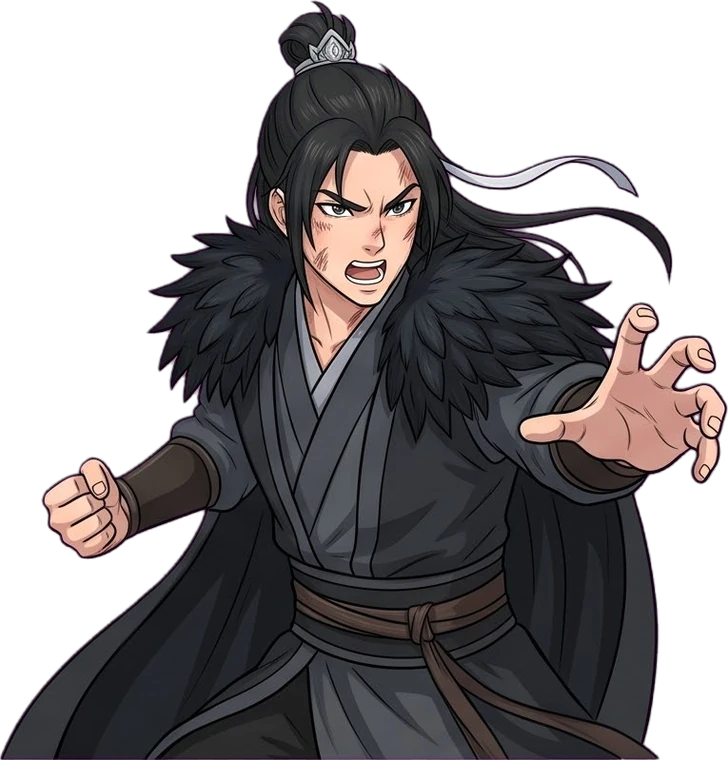
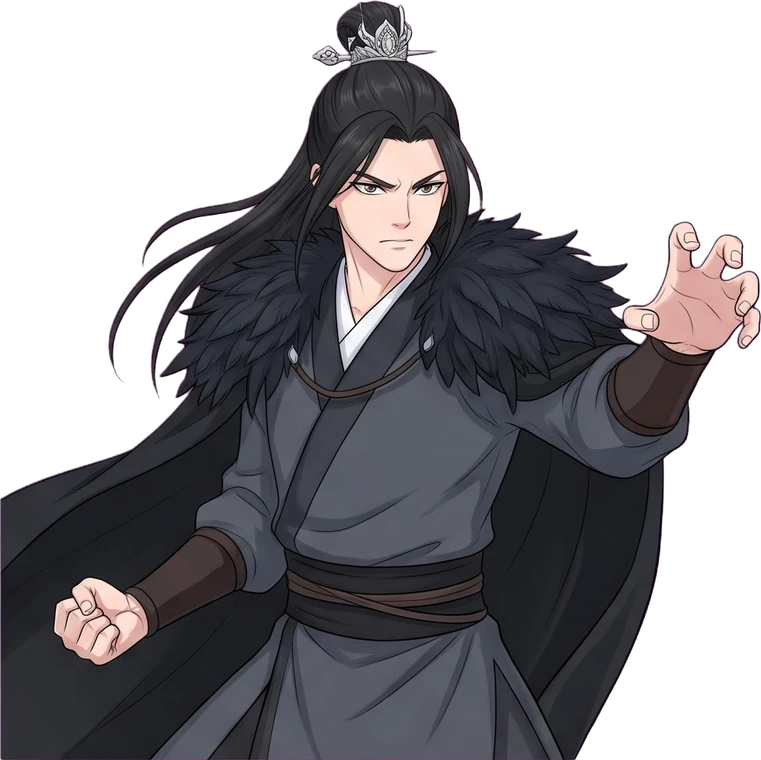
最終版134:男主體修絕學特寫換成無傷版
Claude-Session: https://claude.ai/code/session_01Eudv1bj25nFF4NszqJcvVs

diff --git a/index.html b/index.html
@@ -16408,7 +16408,7 @@ window.SFX = (() => {
 window.BP114 = {"F_o1_1": "assets/BP/F_o1_1.webp?v=845711f1", "F_o1_2": "assets/BP/F_o1_2.webp?v=63e0ea8a", "F_o1_3": "assets/BP/F_o1_3.webp?v=4c8fedf0", "F_o1_4": "assets/BP/F_o1_4.webp?v=2d3a9938", "F_o1_5": "assets/BP/F_o1_5.webp?v=39089390", "F_o1_6": "assets/BP/F_o1_6.webp?v=665fdf49", "F_o1_7": "assets/BP/F_o1_7.webp?v=a421ed48", "F_o1_8": "assets/BP/F_o1_8.webp?v=46d02e9f", "F_o1_9": "assets/BP/F_o1_9.webp?v=71e7e51b", "F_o2_1": "assets/BP/F_o2_1.webp?v=05a69ca3", "F_o2_2": "assets/BP/F_o2_2.webp?v=b4ad1367", "F_o2_3": "assets/BP/F_o2_3.webp?v=5b5c3b9e", "F_o2_4": "assets/BP/F_o2_4.webp?v=675eb247", "F_o2_5": "assets/BP/F_o2_5.webp?v=3e6b4256", "F_o2_6": "assets/BP/F_o2_6.webp?v=a83ed8f2", "F_o2_7": "assets/BP/F_o2_7.webp?v=5385903d", "F_o2_8": "assets/BP/F_o2_8.webp?v=813db133", "F_o2_9": "assets/BP/F_o2_9.webp?v=fe97a297", "F_o3_1": "assets/BP/F_o3_1.webp?v=bb0a3107", "F_o3_2": "assets/BP/F_o3_2.webp?v=427aa689", "F_o3_3": "assets/BP/F_o3_3.webp?v=85f7357a", "F_o3_4": "assets/BP/F_o3_4.webp?v=72153950", "F_o3_5": "assets/BP/F_o3_5.webp?v=667aea18", "F_o3_6": "assets/BP/F_o3_6.webp?v=0a9314ea", "F_o3_7": "assets/BP/F_o3_7.webp?v=e8cbb446", "F_o3_8": "assets/BP/F_o3_8.webp?v=b0c55eaa", "F_o3_9": "assets/BP/F_o3_9.webp?v=72363e9e", "F_o4_1": "assets/BP/F_o4_1.webp?v=0a7498b0", "F_o4_2": "assets/BP/F_o4_2.webp?v=0d6c24b1", "F_o4_3": "assets/BP/F_o4_3.webp?v=64f0bf7d", "F_o4_4": "assets/BP/F_o4_4.webp?v=ee9cef42", "F_o4_5": "assets/BP/F_o4_5.webp?v=1df47660", "F_o4_6": "assets/BP/F_o4_6.webp?v=7e19d22c", "F_o4_7": "assets/BP/F_o4_7.webp?v=23243e00", "F_o4_8": "assets/BP/F_o4_8.webp?v=41ff7a57", "F_o4_9": "assets/BP/F_o4_9.webp?v=fdd62696", "F_o5_1": "assets/BP/F_o5_1.webp?v=1acbb409", "F_o5_2": "assets/BP/F_o5_2.webp?v=057ef934", "F_o5_3": "assets/BP/F_o5_3.webp?v=8cf69a7a", "F_o5_4": "assets/BP/F_o5_4.webp?v=83b6597d", "F_o5_5": "assets/BP/F_o5_5.webp?v=2527e5a5", "F_o5_6": "assets/BP/F_o5_6.webp?v=67d0d5f1", "F_o5_7": "assets/BP/F_o5_7.webp?v=4fe41938", "F_o5_8": "assets/BP/F_o5_8.webp?v=a7d74ed8", "F_o5_9": "assets/BP/F_o5_9.webp?v=3954470c", "M_o1_1": "assets/BP/M_o1_1.webp?v=2560faa7", "M_o1_2": "assets/BP/M_o1_2.webp?v=7ad66686", "M_o1_3": "assets/BP/M_o1_3.webp?v=49844ea7", "M_o1_4": "assets/BP/M_o1_4.webp?v=e28f9fdc", "M_o1_5": "assets/BP/M_o1_5.webp?v=b9ccd80b", "M_o1_6": "assets/BP/M_o1_6.webp?v=e9083ee8", "M_o1_7": "assets/BP/M_o1_7.webp?v=58ceecdd", "M_o1_8": "assets/BP/M_o1_8.webp?v=cfe7d049", "M_o1_9": "assets/BP/M_o1_9.webp?v=c5d17e5e", "M_o2_1": "assets/BP/M_o2_1.webp?v=a457cddd", "M_o2_2": "assets/BP/M_o2_2.webp?v=5350cd1f", "M_o2_3": "assets/BP/M_o2_3.webp?v=9923ac77", "M_o2_4": "assets/BP/M_o2_4.webp?v=54d8b4cd", "M_o2_5": "assets/BP/M_o2_5.webp?v=7b33d424", "M_o2_6": "assets/BP/M_o2_6.webp?v=99974fd4", "M_o2_7": "assets/BP/M_o2_7.webp?v=9e35d3f7", "M_o2_8": "assets/BP/M_o2_8.webp?v=010e2f77", "M_o2_9": "assets/BP/M_o2_9.webp?v=9e51febd", "M_o3_1": "assets/BP/M_o3_1.webp?v=911e0148", "M_o3_2": "assets/BP/M_o3_2.webp?v=d49ff3b7", "M_o3_3": "assets/BP/M_o3_3.webp?v=70fd962f", "M_o3_4": "assets/BP/M_o3_4.webp?v=10baf48d", "M_o3_5": "assets/BP/M_o3_5.webp?v=64e0e325", "M_o3_6": "assets/BP/M_o3_6.webp?v=c2438bd5", "M_o3_7": "assets/BP/M_o3_7.webp?v=a6ce3d23", "M_o3_8": "assets/BP/M_o3_8.webp?v=c9752f83", "M_o3_9": "assets/BP/M_o3_9.webp?v=a1af0ada", "M_o4_1": "assets/BP/M_o4_1.webp?v=43ac3c38", "M_o4_2": "assets/BP/M_o4_2.webp?v=f512e93b", "M_o4_3": "assets/BP/M_o4_3.webp?v=651f67c3", "M_o4_4": "assets/BP/M_o4_4.webp?v=5e0b1883", "M_o4_5": "assets/BP/M_o4_5.webp?v=9e77acc4", "M_o4_6": "assets/BP/M_o4_6.webp?v=6ed9a474", "M_o4_7": "assets/BP/M_o4_7.webp?v=5427d33a", "M_o4_8": "assets/BP/M_o4_8.webp?v=c0be0eb9", "M_o4_9": "assets/BP/M_o4_9.webp?v=22d5c0e4", "M_o5_1": "assets/BP/M_o5_1.webp?v=2e970d7d", "M_o5_2": "assets/BP/M_o5_2.webp?v=ded257bf", "M_o5_3": "assets/BP/M_o5_3.webp?v=4af86b3b", "M_o5_4": "assets/BP/M_o5_4.webp?v=10635597", "M_o5_5": "assets/BP/M_o5_5.webp?v=b3438832", "M_o5_6": "assets/BP/M_o5_6.webp?v=132388bd", "M_o5_7": "assets/BP/M_o5_7.webp?v=24d3b448", "M_o5_8": "assets/BP/M_o5_8.webp?v=68e0ee4d", "M_o5_9": "assets/BP/M_o5_9.webp?v=ceae38ce"};
 
 /* v122 本命絕學過場特寫 */
-window.UC121 = {"F_sword": "assets/UC/F_sword.webp?v=d6b677e1", "F_magic": "assets/UC/F_magic.webp?v=c86b9151", "F_body": "assets/UC/F_body.webp?v=ed430cdf", "F_pill": "assets/UC/F_pill.webp?v=a4586067", "F_o2_sword": "assets/UC/F_o2_sword.webp?v=df65fb9d", "F_o2_magic": "assets/UC/F_o2_magic.webp?v=ee4d66b8", "F_o2_body": "assets/UC/F_o2_body.webp?v=b3b2b16c", "F_o2_pill": "assets/UC/F_o2_pill.webp?v=f8ec9a1b", "F_o3_sword": "assets/UC/F_o3_sword.webp?v=70c4c692", "F_o3_magic": "assets/UC/F_o3_magic.webp?v=b4d94d57", "F_o3_body": "assets/UC/F_o3_body.webp?v=fbb4ddd4", "F_o3_pill": "assets/UC/F_o3_pill.webp?v=cf52e338", "F_o4_sword": "assets/UC/F_o4_sword.webp?v=fef98040", "F_o4_magic": "assets/UC/F_o4_magic.webp?v=020c8609", "F_o4_body": "assets/UC/F_o4_body.webp?v=df527030", "F_o4_pill": "assets/UC/F_o4_pill.webp?v=be557bbf", "F_o5_sword": "assets/UC/F_o5_sword.webp?v=6403e1ea", "F_o5_magic": "assets/UC/F_o5_magic.webp?v=ef6c83a6", "F_o5_body": "assets/UC/F_o5_body.webp?v=8b405bbd", "F_o5_pill": "assets/UC/F_o5_pill.webp?v=0b16eaee", "M_sword": "assets/UC/M_sword.webp?v=e231c3ac", "M_magic": "assets/UC/M_magic.webp?v=1e32114b", "M_body": "assets/UC/M_body.webp?v=5d231bd2", "M_pill": "assets/UC/M_pill.webp?v=a7f87dd1", "M_o2_sword": "assets/UC/M_o2_sword.webp?v=64df1a3e", "M_o2_magic": "assets/UC/M_o2_magic.webp?v=3baf01be", "M_o2_body": "assets/UC/M_o2_body.webp?v=7f35e2b8", "M_o2_pill": "assets/UC/M_o2_pill.webp?v=f527eb9c", "M_o3_sword": "assets/UC/M_o3_sword.webp?v=95c1a4f8", "M_o3_magic": "assets/UC/M_o3_magic.webp?v=07ad8fdc", "M_o3_body": "assets/UC/M_o3_body.webp?v=d1552fea", "M_o3_pill": "assets/UC/M_o3_pill.webp?v=02c07c52", "M_o4_sword": "assets/UC/M_o4_sword.webp?v=e6fdcb5a", "M_o4_magic": "assets/UC/M_o4_magic.webp?v=0733c81d", "M_o4_body": "assets/UC/M_o4_body.webp?v=9c3ac2a6", "M_o4_pill": "assets/UC/M_o4_pill.webp?v=95c1f1e4", "M_o5_sword": "assets/UC/M_o5_sword.webp?v=927d7bf3", "M_o5_magic": "assets/UC/M_o5_magic.webp?v=2b4b559d", "M_o5_body": "assets/UC/M_o5_body.webp?v=b5d37617", "M_o5_pill": "assets/UC/M_o5_pill.webp?v=e087a6a8"};
+window.UC121 = {"F_sword": "assets/UC/F_sword.webp?v=d6b677e1", "F_magic": "assets/UC/F_magic.webp?v=c86b9151", "F_body": "assets/UC/F_body.webp?v=ed430cdf", "F_pill": "assets/UC/F_pill.webp?v=a4586067", "F_o2_sword": "assets/UC/F_o2_sword.webp?v=df65fb9d", "F_o2_magic": "assets/UC/F_o2_magic.webp?v=ee4d66b8", "F_o2_body": "assets/UC/F_o2_body.webp?v=b3b2b16c", "F_o2_pill": "assets/UC/F_o2_pill.webp?v=f8ec9a1b", "F_o3_sword": "assets/UC/F_o3_sword.webp?v=70c4c692", "F_o3_magic": "assets/UC/F_o3_magic.webp?v=b4d94d57", "F_o3_body": "assets/UC/F_o3_body.webp?v=fbb4ddd4", "F_o3_pill": "assets/UC/F_o3_pill.webp?v=cf52e338", "F_o4_sword": "assets/UC/F_o4_sword.webp?v=fef98040", "F_o4_magic": "assets/UC/F_o4_magic.webp?v=020c8609", "F_o4_body": "assets/UC/F_o4_body.webp?v=df527030", "F_o4_pill": "assets/UC/F_o4_pill.webp?v=be557bbf", "F_o5_sword": "assets/UC/F_o5_sword.webp?v=6403e1ea", "F_o5_magic": "assets/UC/F_o5_magic.webp?v=ef6c83a6", "F_o5_body": "assets/UC/F_o5_body.webp?v=8b405bbd", "F_o5_pill": "assets/UC/F_o5_pill.webp?v=0b16eaee", "M_sword": "assets/UC/M_sword.webp?v=e231c3ac", "M_magic": "assets/UC/M_magic.webp?v=1e32114b", "M_body": "assets/UC/M_body.webp?v=5d231bd2", "M_pill": "assets/UC/M_pill.webp?v=a7f87dd1", "M_o2_sword": "assets/UC/M_o2_sword.webp?v=64df1a3e", "M_o2_magic": "assets/UC/M_o2_magic.webp?v=3baf01be", "M_o2_body": "assets/UC/M_o2_body.webp?v=9fb14b44", "M_o2_pill": "assets/UC/M_o2_pill.webp?v=f527eb9c", "M_o3_sword": "assets/UC/M_o3_sword.webp?v=95c1a4f8", "M_o3_magic": "assets/UC/M_o3_magic.webp?v=07ad8fdc", "M_o3_body": "assets/UC/M_o3_body.webp?v=203841fd", "M_o3_pill": "assets/UC/M_o3_pill.webp?v=02c07c52", "M_o4_sword": "assets/UC/M_o4_sword.webp?v=e6fdcb5a", "M_o4_magic": "assets/UC/M_o4_magic.webp?v=0733c81d", "M_o4_body": "assets/UC/M_o4_body.webp?v=546fb08a", "M_o4_pill": "assets/UC/M_o4_pill.webp?v=95c1f1e4", "M_o5_sword": "assets/UC/M_o5_sword.webp?v=927d7bf3", "M_o5_magic": "assets/UC/M_o5_magic.webp?v=2b4b559d", "M_o5_body": "assets/UC/M_o5_body.webp?v=cc2f9c0d", "M_o5_pill": "assets/UC/M_o5_pill.webp?v=e087a6a8"};
 
 /* v124 選招面板主角半身(n=戰意 h=負傷) */
 window.CP124 = {"F_n": "assets/CP/F_n.webp?v=fdc6f39c", "F_h": "assets/CP/F_h.webp?v=7e210eae", "F_o2_n": "assets/CP/F_o2_n.webp?v=e711bcaf", "F_o2_h": "assets/CP/F_o2_h.webp?v=2235eaa4", "F_o3_n": "assets/CP/F_o3_n.webp?v=236ff229", "F_o3_h": "assets/CP/F_o3_h.webp?v=c0f0032c", "F_o4_n": "assets/CP/F_o4_n.webp?v=56ca2308", "F_o4_h": "assets/CP/F_o4_h.webp?v=a4349275", "F_o5_n": "assets/CP/F_o5_n.webp?v=ed7b5050", "F_o5_h": "assets/CP/F_o5_h.webp?v=5eaf709b", "M_n": "assets/CP/M_n.webp?v=ed336fd6", "M_h": "assets/CP/M_h.webp?v=dda6f675", "M_o2_n": "assets/CP/M_o2_n.webp?v=7235f10f", "M_o2_h": "assets/CP/M_o2_h.webp?v=31199bd4", "M_o3_n": "assets/CP/M_o3_n.webp?v=bf1c829c", "M_o3_h": "assets/CP/M_o3_h.webp?v=df126686", "M_o4_n": "assets/CP/M_o4_n.webp?v=00fd78be", "M_o4_h": "assets/CP/M_o4_h.webp?v=0f176dc1", "M_o5_n": "assets/CP/M_o5_n.webp?v=8dd99809", "M_o5_h": "assets/CP/M_o5_h.webp?v=73886cb5"};
